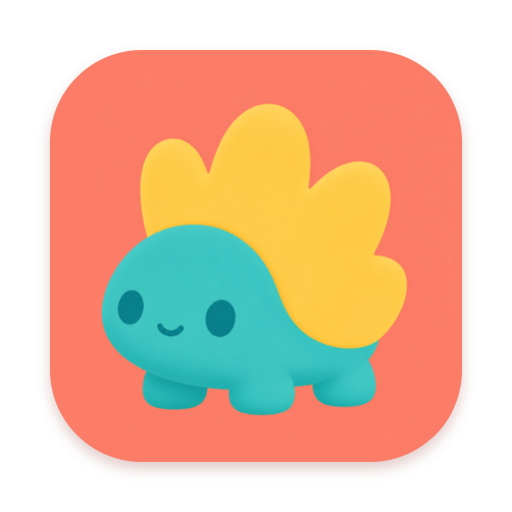
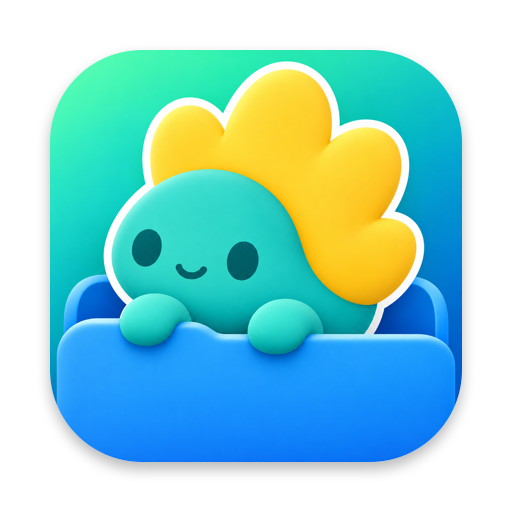
换成小恐龙探出文件夹的新图标

diff --git a/design/app-icon/export-app-icon.swift b/design/app-icon/export-app-icon.swift
@@ -1,0 +1,52 @@
+// 用当前图标原图导出 macOS AppIcon 全部尺寸、README 图标和面板左上角的 BrandLogo。
+// AppIcon 规格：1024 画布，824 圆角方形居中，圆角 184，下方投影；原图铺满圆角方形。
+// 用法：swift design/app-icon/export-app-icon.swift（在仓库根目录运行）
+import AppKit
+
+let source = NSImage(contentsOfFile: "design/app-icon/folder-peek.png")!
+
+func bitmap(_ size: Int, _ draw: (CGContext) -> Void) -> Data {
+  let rep = NSBitmapImageRep(
+    bitmapDataPlanes: nil, pixelsWide: size, pixelsHigh: size, bitsPerSample: 8, samplesPerPixel: 4,
+    hasAlpha: true, isPlanar: false, colorSpaceName: .deviceRGB, bytesPerRow: 0, bitsPerPixel: 0)!
+  NSGraphicsContext.saveGraphicsState()
+  NSGraphicsContext.current = NSGraphicsContext(bitmapImageRep: rep)
+  draw(NSGraphicsContext.current!.cgContext)
+  NSGraphicsContext.restoreGraphicsState()
+  return rep.representation(using: .png, properties: [:])!
+}
+
+func appIcon(_ size: Int) -> Data {
+  bitmap(size) { context in
+    let scale = CGFloat(size) / 1024
+    context.scaleBy(x: scale, y: scale)
+    let plate = CGRect(x: 100, y: 100, width: 824, height: 824)
+    let shape = CGPath(roundedRect: plate, cornerWidth: 184, cornerHeight: 184, transform: nil)
+    // 投影参数按实际像素计算，不随画布缩放，所以手动乘上比例
+    context.saveGState()
+    context.setShadow(offset: CGSize(width: 0, height: -14 * scale), blur: 28 * scale, color: NSColor(white: 0, alpha: 0.28).cgColor)
+    context.addPath(shape)
+    context.setFillColor(NSColor.white.cgColor)
+    context.fillPath()
+    context.restoreGState()
+    context.addPath(shape)
+    context.clip()
+    source.draw(in: plate)
+  }
+}
+
+// 面板 Logo 在代码里切圆角，这里只出铺满的正方形
+func logo(_ size: Int) -> Data {
+  bitmap(size) { context in
+    source.draw(in: CGRect(x: 0, y: 0, width: size, height: size))
+  }
+}
+
+let set = "App/Assets.xcassets/AppIcon.appiconset"
+for size in [16, 32, 64, 128, 256, 512, 1024] {
+  try! appIcon(size).write(to: URL(filePath: "\(set)/icon-\(size).png"))
+}
+try! appIcon(512).write(to: URL(filePath: "docs/assets/icon-512.png"))
+try! logo(64).write(to: URL(filePath: "App/Assets.xcassets/BrandLogo.imageset/logo.png"))
+try! logo(128).write(to: URL(filePath: "App/Assets.xcassets/BrandLogo.imageset/logo@2x.png"))
+print("已导出 AppIcon、docs/assets/icon-512.png 和 BrandLogo")

diff --git a/design/app-icon/candidates-2026-11-12/prompts/01-jelly-folder.md b/design/app-icon/candidates-2026-11-12/prompts/01-jelly-folder.md
@@ -1,0 +1,6 @@
+The app: Kayoi, a small macOS menu-bar utility that mounts your Android phone, camera, cloud drives and NAS as drives in Finder, so you can open and drag their files like a normal folder.
+Output one full-bleed 1:1 square app-icon artwork, 1024x1024, square outer corners, no text, no letters, no numbers, no watermark, no border. One main subject only. Make it look like a professionally designed, high-quality App Store icon: confident shapes, crisp clean edges, strong contrast, readable at 32px.
+Character: use the Kayoi mascot from the attached character reference image (ref-character.png): a small round turquoise-teal turtle-like baby dinosaur with a big golden-yellow scalloped flower-petal crest on its back, two dark oval eyes and a tiny smile, four stubby legs. Keep its identity (teal body, yellow petal crest, simple dot-eye face) but redraw it in the style below. Do not copy anything else from any reference.
+
+Concept: the mascot rises from the bottom-right corner holding up a small smiling blue folder, like showing off a file it just fetched. Style: soft translucent jelly material, frosted-glass glow on the edges, smooth gradients, no hard plastic highlights. Composition: mascot so large it is cropped by the bottom and right edges, head and raised arm fill the right two thirds; the folder (with two little slanted eyes) floats upper-left. Expression: playful slanted-line eyes, cheeky. Background: bright soft gradient peach to magenta to sky blue, a few tiny white sparkle dots.
+Material reference: taste-yuanqi.png is attached only for the jelly material, glow and color mood; do not copy its character or composition.

diff --git a/design/app-icon/candidates-2026-11-12/prompts/02-jelly-phone.md b/design/app-icon/candidates-2026-11-12/prompts/02-jelly-phone.md
@@ -1,0 +1,6 @@
+The app: Kayoi, a small macOS menu-bar utility that mounts your Android phone, camera, cloud drives and NAS as drives in Finder, so you can open and drag their files like a normal folder.
+Output one full-bleed 1:1 square app-icon artwork, 1024x1024, square outer corners, no text, no letters, no numbers, no watermark, no border. One main subject only. Make it look like a professionally designed, high-quality App Store icon: confident shapes, crisp clean edges, strong contrast, readable at 32px.
+Character: use the Kayoi mascot from the attached character reference image (ref-character.png): a small round turquoise-teal turtle-like baby dinosaur with a big golden-yellow scalloped flower-petal crest on its back, two dark oval eyes and a tiny smile, four stubby legs. Keep its identity (teal body, yellow petal crest, simple dot-eye face) but redraw it in the style below. Do not copy anything else from any reference.
+
+Concept: the mascot hugs a chunky rounded smartphone whose screen shows a simple happy face, the phone is its friend being brought to the Mac. Style: soft translucent jelly material, gentle glow, smooth gradients. Composition: mascot enters from the bottom-left, cropped by the bottom edge, phone held up near the center. Expression: content closed-eye smile. Background: soft gradient sky blue to lavender, a few white sparkle dots.
+Material reference: taste-yuanqi.png is attached only for the jelly material, glow and color mood; do not copy its character or composition.

diff --git a/design/app-icon/candidates-2026-11-12/prompts/03-jelly-window.md b/design/app-icon/candidates-2026-11-12/prompts/03-jelly-window.md
@@ -1,0 +1,6 @@
+The app: Kayoi, a small macOS menu-bar utility that mounts your Android phone, camera, cloud drives and NAS as drives in Finder, so you can open and drag their files like a normal folder.
+Output one full-bleed 1:1 square app-icon artwork, 1024x1024, square outer corners, no text, no letters, no numbers, no watermark, no border. One main subject only. Make it look like a professionally designed, high-quality App Store icon: confident shapes, crisp clean edges, strong contrast, readable at 32px.
+Character: use the Kayoi mascot from the attached character reference image (ref-character.png): a small round turquoise-teal turtle-like baby dinosaur with a big golden-yellow scalloped flower-petal crest on its back, two dark oval eyes and a tiny smile, four stubby legs. Keep its identity (teal body, yellow petal crest, simple dot-eye face) but redraw it in the style below. Do not copy anything else from any reference.
+
+Concept: the mascot peeks out of a big rounded Mac window (simple window with three small dots on its title bar), as if climbing out of Finder. Style: soft translucent jelly material, smooth gradients. Composition: the window fills most of the canvas, tilted slightly; the mascot's head and front paws hang over the window's bottom edge toward the viewer. Expression: curious upward glance. Background: warm coral to peach gradient.
+Material reference: taste-yuanqi.png is attached only for the jelly material, glow and color mood; do not copy its character or composition.

diff --git a/design/app-icon/candidates-2026-11-12/prompts/16-jelly-cloud-balloon.md b/design/app-icon/candidates-2026-11-12/prompts/16-jelly-cloud-balloon.md
@@ -1,0 +1,6 @@
+The app: Kayoi, a small macOS menu-bar utility that mounts your Android phone, camera, cloud drives and NAS as drives in Finder, so you can open and drag their files like a normal folder.
+Output one full-bleed 1:1 square app-icon artwork, 1024x1024, square outer corners, no text, no letters, no numbers, no watermark, no border. One main subject only. Make it look like a professionally designed, high-quality App Store icon: confident shapes, crisp clean edges, strong contrast, readable at 32px.
+Character: use the Kayoi mascot from the attached character reference image (ref-character.png): a small round turquoise-teal turtle-like baby dinosaur with a big golden-yellow scalloped flower-petal crest on its back, two dark oval eyes and a tiny smile, four stubby legs. Keep its identity (teal body, yellow petal crest, simple dot-eye face) but redraw it in the style below. Do not copy anything else from any reference.
+
+Concept: the mascot rises from the bottom-right holding a small cloud-shaped balloon with a tiny face (cloud drives). Style: soft translucent jelly material with frosted-glass glow. Composition: mascot huge, cropped by the bottom and right edges; cloud balloon at upper-left on a thin string. Expression: slanted-line playful eyes. Background: bright gradient peach, magenta, purple, sky blue, sparkle dots.
+Material reference: taste-yuanqi.png is attached only for the jelly material, glow and color mood; do not copy its character or composition.

diff --git a/design/app-icon/candidates-2026-11-12/prompts/12-jelly-courier.md b/design/app-icon/candidates-2026-11-12/prompts/12-jelly-courier.md
@@ -1,0 +1,6 @@
+The app: Kayoi, a small macOS menu-bar utility that mounts your Android phone, camera, cloud drives and NAS as drives in Finder, so you can open and drag their files like a normal folder.
+Output one full-bleed 1:1 square app-icon artwork, 1024x1024, square outer corners, no text, no letters, no numbers, no watermark, no border. One main subject only. Make it look like a professionally designed, high-quality App Store icon: confident shapes, crisp clean edges, strong contrast, readable at 32px.
+Character: use the Kayoi mascot from the attached character reference image (ref-character.png): a small round turquoise-teal turtle-like baby dinosaur with a big golden-yellow scalloped flower-petal crest on its back, two dark oval eyes and a tiny smile, four stubby legs. Keep its identity (teal body, yellow petal crest, simple dot-eye face) but redraw it in the style below. Do not copy anything else from any reference.
+
+Concept: the mascot is a little courier walking with a big folder strapped on its back like a backpack, carrying files back and forth. Style: soft translucent jelly material, frosted glow. Composition: mascot walking toward the right, large, cropped by the bottom edge; folder backpack visible behind the crest. Expression: determined cheerful. Background: gradient peach to pink to lilac, sparkle dots.
+Material reference: taste-yuanqi.png is attached only for the jelly material, glow and color mood; do not copy its character or composition.

diff --git a/design/app-icon/candidates-2026-11-12/prompts/20-jelly-phone-kite.md b/design/app-icon/candidates-2026-11-12/prompts/20-jelly-phone-kite.md
@@ -1,0 +1,6 @@
+The app: Kayoi, a small macOS menu-bar utility that mounts your Android phone, camera, cloud drives and NAS as drives in Finder, so you can open and drag their files like a normal folder.
+Output one full-bleed 1:1 square app-icon artwork, 1024x1024, square outer corners, no text, no letters, no numbers, no watermark, no border. One main subject only. Make it look like a professionally designed, high-quality App Store icon: confident shapes, crisp clean edges, strong contrast, readable at 32px.
+Character: use the Kayoi mascot from the attached character reference image (ref-character.png): a small round turquoise-teal turtle-like baby dinosaur with a big golden-yellow scalloped flower-petal crest on its back, two dark oval eyes and a tiny smile, four stubby legs. Keep its identity (teal body, yellow petal crest, simple dot-eye face) but redraw it in the style below. Do not copy anything else from any reference.
+
+Concept: the mascot flies a smartphone like a kite on a cable string, the phone floating in the sky connected by the cable. Style: soft translucent jelly material, gentle glow. Composition: mascot large at the bottom-right, cropped by the edges, cable string rising to the phone at upper-left. Expression: joyful looking up. Background: gradient sky blue to pale yellow, a few white sparkle dots.
+Material reference: taste-yuanqi.png is attached only for the jelly material, glow and color mood; do not copy its character or composition.

diff --git a/design/app-icon/candidates-2026-11-12/prompts/08-jelly-camera.md b/design/app-icon/candidates-2026-11-12/prompts/08-jelly-camera.md
@@ -1,0 +1,6 @@
+The app: Kayoi, a small macOS menu-bar utility that mounts your Android phone, camera, cloud drives and NAS as drives in Finder, so you can open and drag their files like a normal folder.
+Output one full-bleed 1:1 square app-icon artwork, 1024x1024, square outer corners, no text, no letters, no numbers, no watermark, no border. One main subject only. Make it look like a professionally designed, high-quality App Store icon: confident shapes, crisp clean edges, strong contrast, readable at 32px.
+Character: use the Kayoi mascot from the attached character reference image (ref-character.png): a small round turquoise-teal turtle-like baby dinosaur with a big golden-yellow scalloped flower-petal crest on its back, two dark oval eyes and a tiny smile, four stubby legs. Keep its identity (teal body, yellow petal crest, simple dot-eye face) but redraw it in the style below. Do not copy anything else from any reference.
+
+Concept: the mascot wears a chunky retro camera on a strap around its neck, ready to bring photos in. Style: soft translucent jelly material, gentle glow. Composition: mascot rises from the bottom, cropped by the bottom edge, camera big on its chest. Expression: excited sparkling eyes. Background: soft gradient mint to sky blue, a few white sparkle dots.
+Material reference: taste-yuanqi.png is attached only for the jelly material, glow and color mood; do not copy its character or composition.

diff --git a/design/app-icon/candidates-2026-11-12/prompts/04-flat-cable.md b/design/app-icon/candidates-2026-11-12/prompts/04-flat-cable.md
@@ -1,0 +1,5 @@
+The app: Kayoi, a small macOS menu-bar utility that mounts your Android phone, camera, cloud drives and NAS as drives in Finder, so you can open and drag their files like a normal folder.
+Output one full-bleed 1:1 square app-icon artwork, 1024x1024, square outer corners, no text, no letters, no numbers, no watermark, no border. One main subject only. Make it look like a professionally designed, high-quality App Store icon: confident shapes, crisp clean edges, strong contrast, readable at 32px.
+Character: use the Kayoi mascot from the attached character reference image (ref-character.png): a small round turquoise-teal turtle-like baby dinosaur with a big golden-yellow scalloped flower-petal crest on its back, two dark oval eyes and a tiny smile, four stubby legs. Keep its identity (teal body, yellow petal crest, simple dot-eye face) but redraw it in the style below. Do not copy anything else from any reference.
+
+Concept: the mascot proudly carries a big USB-C plug on its shoulder like a hero's sword, the thick cable trailing off the canvas. Style: bold flat illustration with thick smooth dark outlines, flat fills with at most one simple gradient. Composition: mascot large, slightly tilted, entering from the bottom-left, cropped by the bottom edge; the plug points up-right. Expression: confident grin, half-lidded proud eyes. Background: saturated sunny yellow.

diff --git a/design/app-icon/candidates-2026-11-12/prompts/09-flat-menubar-hang.md b/design/app-icon/candidates-2026-11-12/prompts/09-flat-menubar-hang.md
@@ -1,0 +1,5 @@
+The app: Kayoi, a small macOS menu-bar utility that mounts your Android phone, camera, cloud drives and NAS as drives in Finder, so you can open and drag their files like a normal folder.
+Output one full-bleed 1:1 square app-icon artwork, 1024x1024, square outer corners, no text, no letters, no numbers, no watermark, no border. One main subject only. Make it look like a professionally designed, high-quality App Store icon: confident shapes, crisp clean edges, strong contrast, readable at 32px.
+Character: use the Kayoi mascot from the attached character reference image (ref-character.png): a small round turquoise-teal turtle-like baby dinosaur with a big golden-yellow scalloped flower-petal crest on its back, two dark oval eyes and a tiny smile, four stubby legs. Keep its identity (teal body, yellow petal crest, simple dot-eye face) but redraw it in the style below. Do not copy anything else from any reference.
+
+Concept: the mascot hangs from the top edge of the icon with its front paws, like hanging from the Mac menu bar, a menu-bar utility. A thick dark band across the top represents the menu bar. Style: bold flat illustration with thick smooth dark outlines. Composition: band at the very top, mascot hanging below it, large, legs dangling, body cropped by the bottom edge. Expression: playful, tongue out slightly. Background: saturated sky blue.

diff --git a/design/app-icon/candidates-2026-11-12/prompts/07-vector-cable-tail.md b/design/app-icon/candidates-2026-11-12/prompts/07-vector-cable-tail.md
@@ -1,0 +1,5 @@
+The app: Kayoi, a small macOS menu-bar utility that mounts your Android phone, camera, cloud drives and NAS as drives in Finder, so you can open and drag their files like a normal folder.
+Output one full-bleed 1:1 square app-icon artwork, 1024x1024, square outer corners, no text, no letters, no numbers, no watermark, no border. One main subject only. Make it look like a professionally designed, high-quality App Store icon: confident shapes, crisp clean edges, strong contrast, readable at 32px.
+Character: use the Kayoi mascot from the attached character reference image (ref-character.png): a small round turquoise-teal turtle-like baby dinosaur with a big golden-yellow scalloped flower-petal crest on its back, two dark oval eyes and a tiny smile, four stubby legs. Keep its identity (teal body, yellow petal crest, simple dot-eye face) but redraw it in the style below. Do not copy anything else from any reference.
+
+Concept: the mascot's tail is a USB-C cable whose plug is plugged into the canvas edge, the mascot is literally connected. Style: smooth soft-gradient vector illustration, simple linear gradients, no inner glow. Composition: mascot large in the center-left, tail cable curling to the right edge where the plug disappears into it. Expression: curious, looking back at its own tail. Background: soft gradient warm yellow to orange.

diff --git a/design/app-icon/candidates-2026-11-12/prompts/13-flat-plug-bite.md b/design/app-icon/candidates-2026-11-12/prompts/13-flat-plug-bite.md
@@ -1,0 +1,5 @@
+The app: Kayoi, a small macOS menu-bar utility that mounts your Android phone, camera, cloud drives and NAS as drives in Finder, so you can open and drag their files like a normal folder.
+Output one full-bleed 1:1 square app-icon artwork, 1024x1024, square outer corners, no text, no letters, no numbers, no watermark, no border. One main subject only. Make it look like a professionally designed, high-quality App Store icon: confident shapes, crisp clean edges, strong contrast, readable at 32px.
+Character: use the Kayoi mascot from the attached character reference image (ref-character.png): a small round turquoise-teal turtle-like baby dinosaur with a big golden-yellow scalloped flower-petal crest on its back, two dark oval eyes and a tiny smile, four stubby legs. Keep its identity (teal body, yellow petal crest, simple dot-eye face) but redraw it in the style below. Do not copy anything else from any reference.
+
+Concept: the mascot holds a USB-C plug in its mouth like a puppy carrying a toy, the cable trailing off the edge. Style: bold flat illustration with thick smooth dark outlines, flat fills. Composition: head and upper body very large, entering diagonally from the bottom-right, cropped by the edges. Expression: mischievous sideways glance. Background: solid deep forest green so it separates from the turquoise body.
